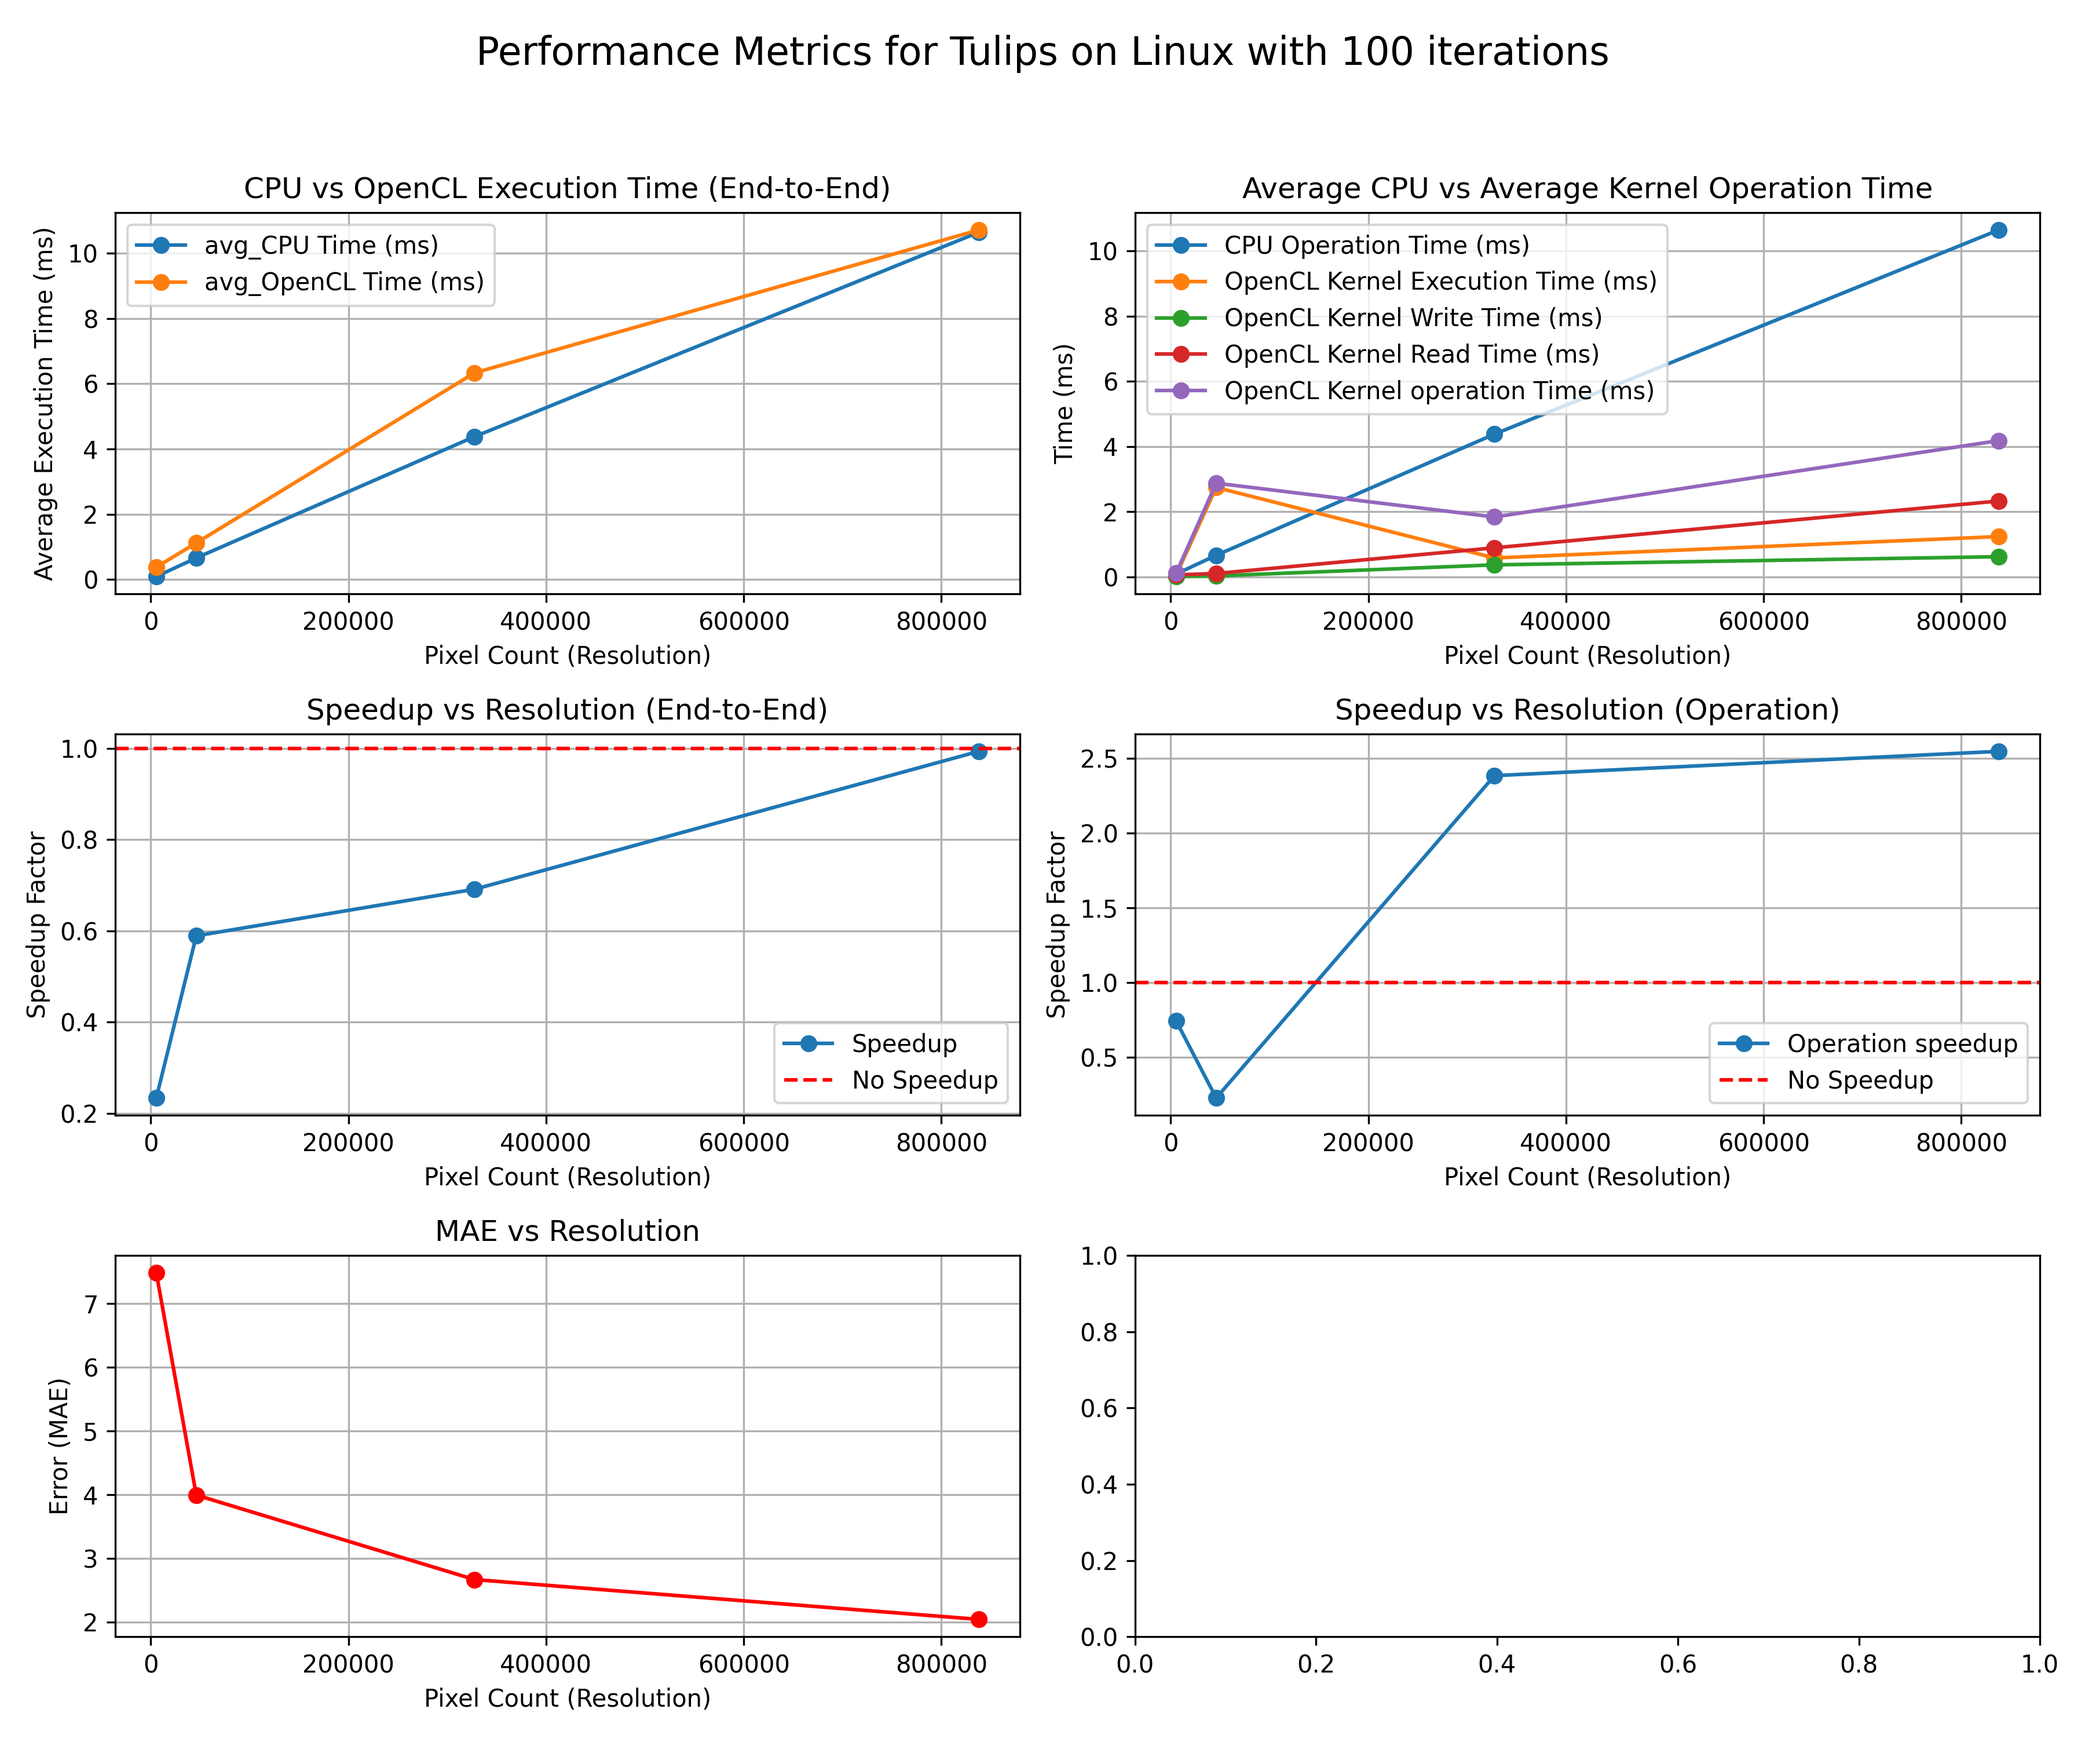
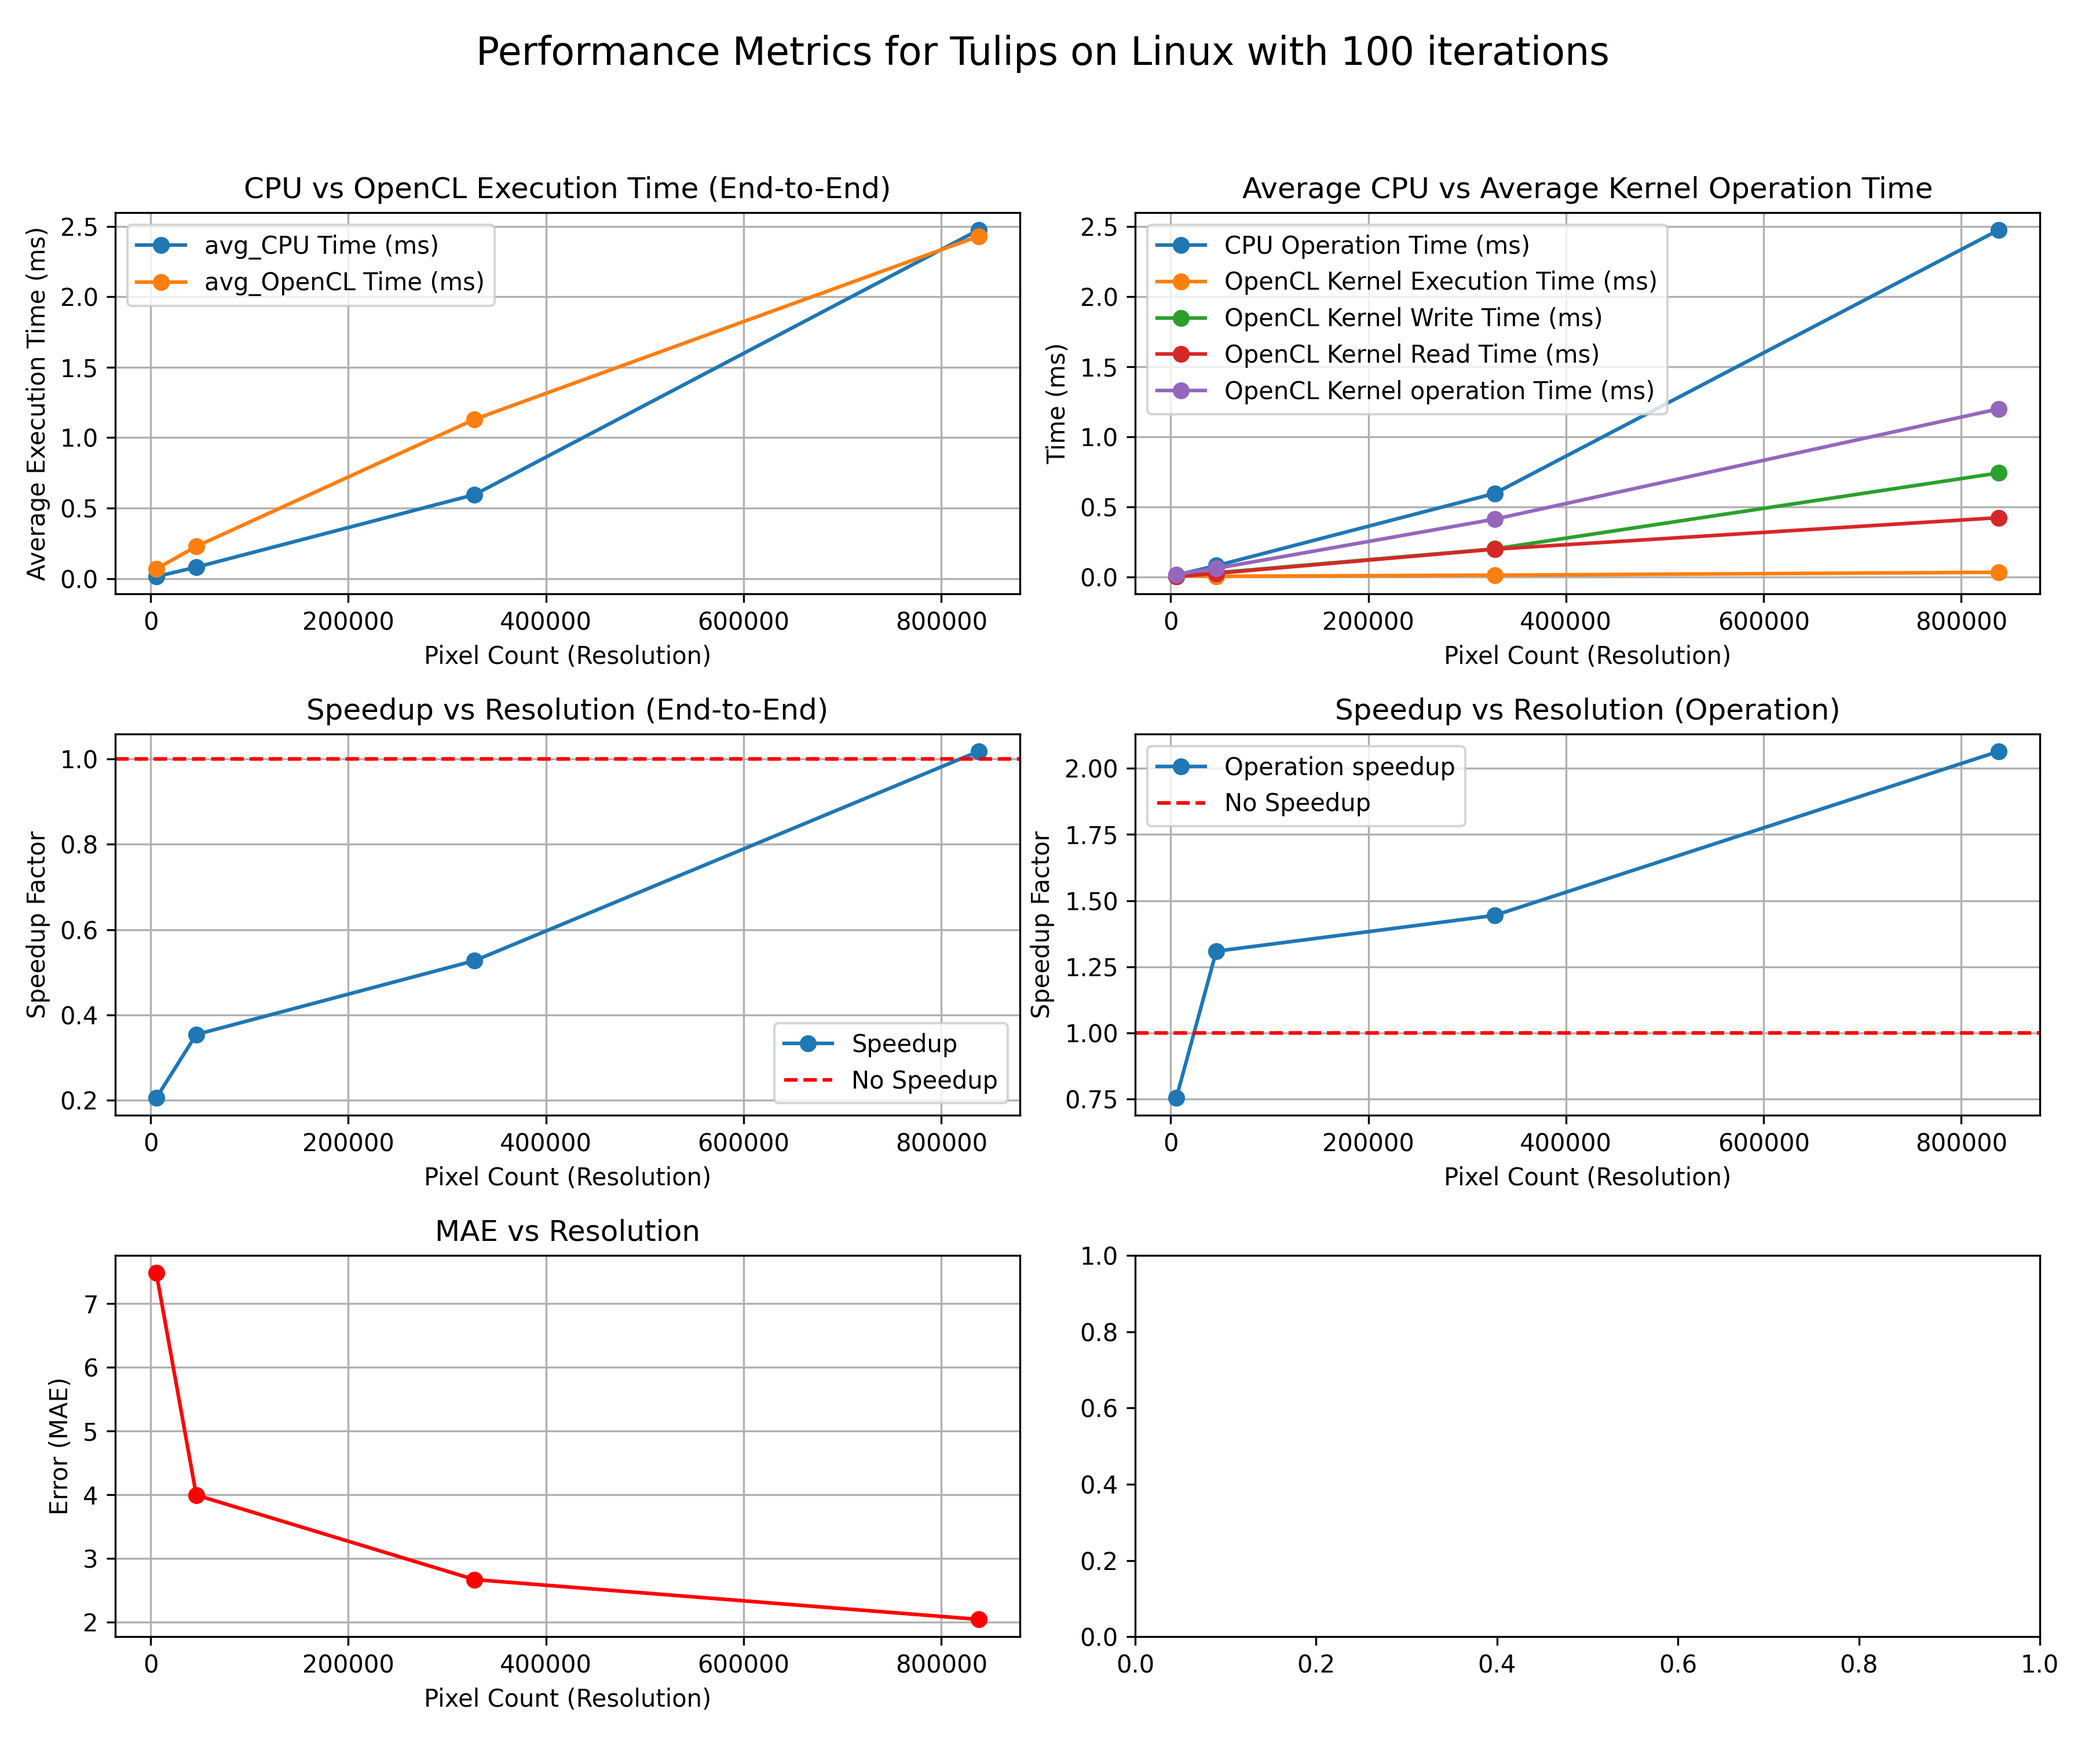
performed test on linux on EdgeDetection:

diff --git a/src/EdgeDetection/EdgeDetection.cpp b/src/EdgeDetection/EdgeDetection.cpp
@@ -18,6 +18,7 @@ bool DISPLAY_IMAGES = false;
 bool DISPLAY_TERMINAL_RESULTS = true;
 
 bool LOG_EVENTS = false;
+bool BYPASS_IMAGE_SUPPORT = true;
 
 std::string IMAGES_DIRECTORY = "images/";
 std::string OUTPUT_FILE = "results.csv";
@@ -59,12 +60,25 @@ void InitOpenCL(Controller& controller, cl_context* context, cl_command_queue* c
 
     // Check device image support
     cl_bool image_support = CL_FALSE;
-    clGetDeviceInfo(devices[DEVICE_INDEX], CL_DEVICE_IMAGE_SUPPORT, sizeof(cl_bool), &image_support, nullptr);
-    if (image_support == CL_FALSE) {
+    switch (BYPASS_IMAGE_SUPPORT)
+    {
+    case false:
+        clGetDeviceInfo(devices[DEVICE_INDEX], CL_DEVICE_IMAGE_SUPPORT, sizeof(cl_bool), &image_support, nullptr);
+        if (image_support == CL_FALSE) {
+            kernel_name = "edge_base.cl";
+            std::cout << "Device does not support images. Using buffers instead of image2D structures." << std::endl;
+        }else{
+            std::cout << "Device supports images." << std::endl;
+        }
+        break;
+
+    case true:
         kernel_name = "edge_base.cl";
-        std::cout << "Device does not support images. Using buffers instead of image2D structures." << std::endl;
-    }else{
-        std::cout << "Device supports images." << std::endl;
+        std::cout << "Bypass image support is True. Using buffers instead of image2D structures." << std::endl;
+        break;
+    
+    default:
+        break;
     }
     controller.SetImageSupport(image_support);
 

diff --git a/src/EdgeDetection/results/visualisation.py b/src/EdgeDetection/results/visualisation.py
@@ -4,7 +4,7 @@ import matplotlib.pyplot as plt
 
 # 0 - Linux
 # 1 - Windows
-USING_OS = 1
+USING_OS = 0
 
 # 0 - Debug
 # 1- Release
